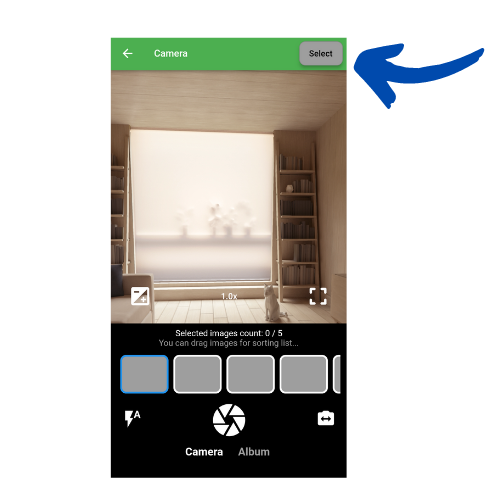
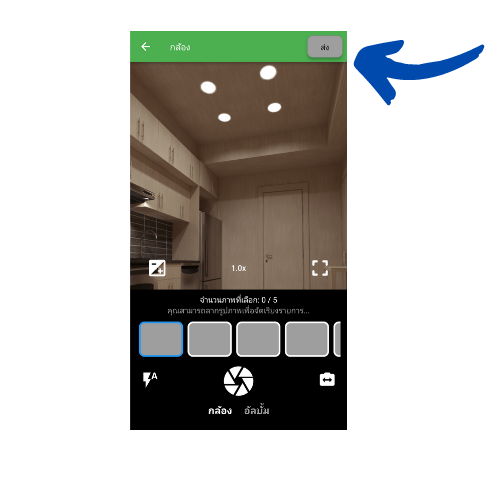
แก้สาธิต

diff --git a/lib/model/onboard_data.dart b/lib/model/onboard_data.dart
@@ -19,10 +19,10 @@ List<OnBoarding> onboardingContents = [
       details1: 'หน้าแรกจะบอกข้อมูลที่ต้องการจะเก็บข้อมูลและแนะนำ',
       details2: 'ให้รู้ความหมายแหล่งน้ำก่อนจะเพิ่มข้อมูล'),
   OnBoarding(
-      title: 'แรกการเพิ่มข้อมูล',
+      title: 'ขั้นแรกการเพิ่มข้อมูล',
       image: 'assets/images/2.png',
       details1: 'เมื่อรู้ความหมายและกดเลือกเพิ่มข้อมูล',
-      details2: 'ทำการถ่ายรูปภาพแหล่งน้ำประกอบ ถ่ายเสร็จกด selected'),
+      details2: 'ทำการถ่ายรูปภาพแหล่งน้ำประกอบ ถ่ายเสร็จกด ส่ง'),
   OnBoarding(
       title: 'หน้าแอดข้อมูลแหล่งน้ำ',
       image: 'assets/images/3.png',

diff --git a/lib/widget/page_waiting_approval.dart b/lib/widget/page_waiting_approval.dart
@@ -39,10 +39,10 @@ class _WaitapprovalPageState extends State<WaitapprovalPage> {
               //   top: 10.0,
               // ),
               title: Text(
-                "ยกเลิกการเพิ่มข้อมูลแหล่งน้ำ",
-                textAlign: TextAlign.center,
+                " ยกเลิกการเพิ่มข้อมูลแหล่งน้ำ",
+                textAlign: TextAlign.start,
                 style: GoogleFonts.prompt(
-                  fontSize: 20.0,
+                  fontSize: 18,
                   color: Colors.red,
                   fontWeight: FontWeight.bold,
                 ),

diff --git a/lib/screen/screen_ app_onboarding.dart b/lib/screen/screen_ app_onboarding.dart
@@ -136,11 +136,6 @@ class onboard_page1 extends StatelessWidget {
             TextSpan(
                 text: onboardingContents[index].details2,
                 style: TextStyle(color: kPrimaryColor)),
-            // TextSpan(text: 'TO BE A BETTER '),
-            // TextSpan(text: 'VERSION OF '),
-            // TextSpan(
-            //     text: 'YOURSELF ',
-            //     style: TextStyle(color: kPrimaryColor)),
           ]),
         ),
         Padding(

diff --git a/lib/model/history_water.dart b/lib/model/history_water.dart
@@ -160,7 +160,7 @@ Future<List<HistoryWater>> getHistoryWaterApproved(
           dateApproved: (doc.data() as dynamic)['dateApproved'],
           status: (doc.data() as dynamic)['status'],
           cancelNote: (doc.data() as dynamic)['cancelNote'],
-          unapprovedNote: (doc.data() as dynamic)['unapprovedNote'],
+          unapprovedNote: (doc.data() as dynamic)['Reason'],
           idDocs: doc.id as dynamic,
         ),
       )

diff --git a/lib/screen/screen_history_add.dart b/lib/screen/screen_history_add.dart
@@ -59,7 +59,7 @@ class _HistoryWaterState extends State<HistoryWater>
           tabs: [
             Tab(
               child: Text(
-                "รอนุมัติ",
+                "รออนุมัติ",
                 style: GoogleFonts.prompt(
                   fontSize: 14,
                   color: Colors.white,
